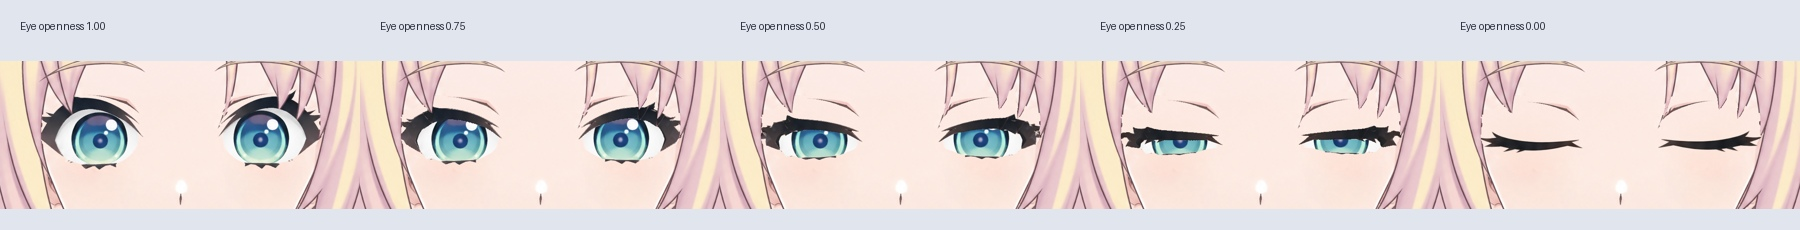
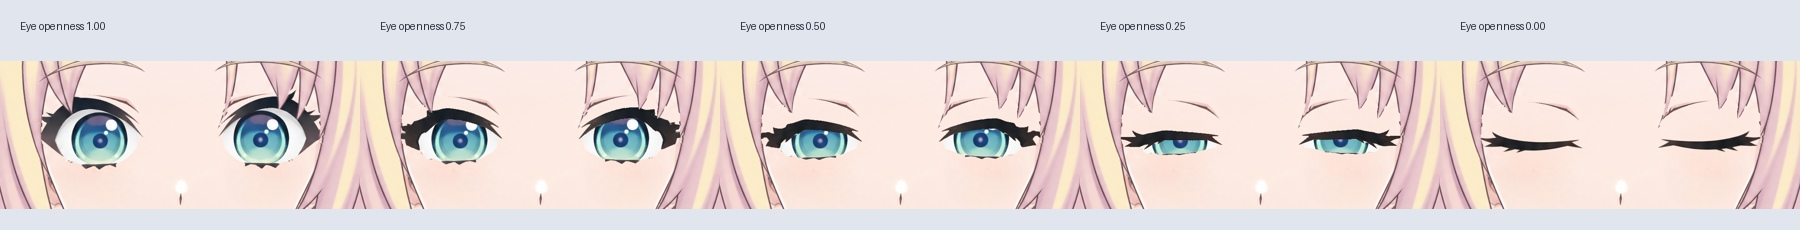
Refine moving eyelash ink, outer corners and adjacent hair edges

diff --git a/live2d/production/build_blink_materials_v34.py b/live2d/production/build_blink_materials_v34.py
@@ -13,9 +13,9 @@ import numpy as np
 from PIL import Image, ImageDraw
 from psd_tools import PSDImage
 from psd_tools.api.layers import Group, PixelLayer
-from scipy.ndimage import gaussian_filter1d, distance_transform_edt
+from scipy.ndimage import gaussian_filter1d, distance_transform_edt, median_filter
 
-from export_gaze_v34 import BASE, decode
+from export_gaze_v34 import BASE
 from split_head_v34 import thumbnail
 
 ROOT = Path(__file__).resolve().parents[1]
@@ -62,7 +62,7 @@ def blend_rgba(a, b, t):
     return np.uint8(np.clip(np.rint(out*255), 0, 255))
 
 
-def morph_lashes(a, b, t):
+def morph_lashes(a, b, t, profile=None):
     if t == 0: return b
     if t == 1: return a
     # Interpolate contours, not the visibility of two outlines: alpha crossfade
@@ -70,8 +70,14 @@ def morph_lashes(a, b, t):
     def sdf(im):
         m=(im[:, :, 3]>100).astype('uint8')
         return cv2.distanceTransform(m,cv2.DIST_L2,5)-cv2.distanceTransform(1-m,cv2.DIST_L2,5)
-    alpha=np.clip(.5+t*sdf(a)+(1-t)*sdf(b),0,1)
-    out=blend_rgba(a,b,t)
+    weights=t if profile is None else profile[None,:]
+    distance=weights*sdf(a)+(1-weights)*sdf(b)
+    # Suppress one-pixel spurs created when two different lash tips merge.
+    # Endpoint art is kept intact; filtering peaks only in the middle states.
+    strength=4*weights*(1-weights)
+    distance=(1-strength)*distance+strength*cv2.GaussianBlur(distance,(0,0),.85)
+    alpha=np.clip(.5+distance,0,1)
+    out=blend_rgba(a,b,t if profile is None else profile[None,:,None])
     out[:, :, 3]=np.rint(alpha*255)
     out[out[:, :, 3]==0]=0
     return out
@@ -83,6 +89,14 @@ def prepare_eye(side, parts, closed_source, blank):
            for suffix in ['White', 'Iris', 'UpperLid', 'LowerLid']}
     lash = eye['UpperLid'].copy(); lash[:, :, 3] = component(lash[:, :, 3])
     crease = eye['UpperLid'].copy(); crease[:, :, 3] = component(crease[:, :, 3], 1)
+    # The earlier source mixed visible art with underpainting at hair edges.
+    # Use continuous ink from the existing bald LibTV plate for the moving lash,
+    # extending only real opaque dark pixels beneath the antialiased edge.
+    raw=np.array(Image.open(ROOT/'rebuild_v3_4/underpaint/skin-underpaint-raw.png').crop(box))
+    valid=(lash[:,:,3]>245)&(raw[:,:,:3].max(2)<135)
+    assert valid.sum()>1000
+    nearest=distance_transform_edt(~valid,return_distances=False,return_indices=True)
+    lash[:,:,:3]=raw[nearest[0],nearest[1],:3]
     generated = np.array(closed_source.crop(box)).astype('float32')
     skin = np.array(blank.crop(box)).astype('float32')
     # Take only the connected closed eyelash, excluding ear edges and folds.
@@ -110,7 +124,8 @@ def prepare_eye(side, parts, closed_source, blank):
         indices=distance_transform_edt(ink[:,:,3]<250,return_distances=False,return_indices=True)
         ink[:,:,:3]=ink[indices[0],indices[1],:3]
     upper, lower = curves(eye['White'][:, :, 3])
-    return {'parts': eye, 'lash': lash, 'crease': crease, 'closed': closed,
+    return {'side':side,'span':(int(ox[0]),int(ox[-1])),
+            'parts': eye, 'lash': lash, 'crease': crease, 'closed': closed,
             'lt': lt, 'lb': lb, 'ct': ct, 'cb': cb, 'upper': upper, 'lower': lower,
             'registration': {'original_lash_x': [int(ox[0]+box[0]), int(ox[-1]+box[0])],
                              'generated_lash_x': [int(cx[0]+box[0]), int(cx[-1]+box[0])]}}
@@ -122,19 +137,23 @@ def keyform(eye, openness):
     p = openness
     h, w = eye['closed'].shape[:2]
     yy = np.broadcast_to(np.arange(h)[:, None], (h, w)).astype('float32')
+    xx=np.arange(w)
+    outer=np.clip((eye['span'][0]+120-xx)/70,0,1) if eye['side']=='L' else np.clip((xx-eye['span'][1]+120)/70,0,1)
+    outer=outer*outer*(3-2*outer)
+    profile=p*(1-outer)+p*p*outer
     # Match the two eyelash envelopes before interpolation, avoiding two
     # spatially separated outlines. This is a material study, not mesh binding.
-    top = eye['lt']*p + eye['ct']*(1-p)
-    bottom = eye['lb']*p + eye['cb']*(1-p)
+    top = eye['lt']*profile + eye['ct']*(1-profile)
+    bottom = eye['lb']*profile + eye['cb']*(1-profile)
     phase = (yy-top) / np.maximum(bottom-top, 1)
     a = remap_rgba(eye['lash'], eye['lt'] + phase*(eye['lb']-eye['lt']))
     b = remap_rgba(eye['closed'], eye['ct'] + phase*(eye['cb']-eye['ct']))
-    upper_lash = morph_lashes(a, b, p)
+    upper_lash = morph_lashes(a, b, p, profile)
     # Keep a single crease; the generated plate's additional crease is omitted.
     crease = remap_rgba(eye['crease'], yy-18*(1-p))
     upper_image = Image.fromarray(upper_lash)
     upper_image.alpha_composite(Image.fromarray(crease))
-    upper_edge = eye['upper']*p + eye['cb']*(1-p)
+    upper_edge = eye['upper']*profile + eye['cb']*(1-profile)
     lower_edge = eye['lower']*p + eye['cb']*(1-p)
     aperture = np.minimum(np.clip(yy-upper_edge+.5, 0, 1), np.clip(lower_edge-yy+.5, 0, 1))
     if p == 0:
@@ -167,8 +186,37 @@ def refine_hair_edges(parts, blank):
     alpha=hi.resize((tr-tx,tb-ty),Image.Resampling.LANCZOS)
     patch=np.array(mother.crop(tipbox));patch[:,:,3]=np.array(alpha)
     layer=parts['Bang_R'].copy();layer.alpha_composite(Image.fromarray(patch),(tx,ty));parts['Bang_R']=layer
-    for n in ['Bang_L','Bang_R']:parts[n].save(OUT/'layers'/f'{n}.png')
-    return [{'layer':'Bang_L','box':list(box)},{'layer':'Bang_R','box':list(tipbox)}]
+    patches=[{'layer':'Bang_L','box':list(box)},{'layer':'Bang_R','box':list(tipbox)}]
+    for names,rect,edge in [(('Bang_L','CheekLock_L'),(651,773,704,916),'right'),
+                            (('Bang_R','CheekLock_R'),(1347,773,1404,916),'left')]:
+        x,y,r,b=rect
+        combined=Image.new('RGBA',(r-x,b-y))
+        for name in names:combined.alpha_composite(parts[name].crop(rect))
+        a=np.array(combined)
+        boundary=[]
+        for row in a[:,:,3]:
+            occupied=np.flatnonzero(row>128)
+            assert len(occupied)>0
+            boundary.append(occupied[-1] if edge=='right' else occupied[0])
+        boundary=np.asarray(boundary,dtype='float32')
+        smooth=gaussian_filter1d(median_filter(boundary,size=15,mode='nearest'),2)
+        yy=np.arange(b-y);fade=np.minimum(np.clip(yy/18,0,1),np.clip((b-y-1-yy)/18,0,1))
+        shift=(boundary-smooth)*fade
+        xx=np.broadcast_to(np.arange(r-x,dtype='float32'),a.shape[:2])
+        # Limit the edit to a narrow band beside the existing hair boundary.
+        weight=np.clip(1-np.abs(xx-boundary[:,None])/14,0,1)
+        xmap=xx+shift[:,None]*weight
+        ymap=np.broadcast_to(yy[:,None],a.shape[:2]).astype('float32')
+        for name in names:
+            layer=parts[name].copy();premul=np.array(layer.crop(rect)).astype('float32')/255
+            premul[:,:,:3]*=premul[:,:,3:4]
+            v=cv2.remap(premul,xmap.astype('float32'),ymap,cv2.INTER_LINEAR,borderMode=cv2.BORDER_REPLICATE)
+            v[:,:,:3]/=np.maximum(v[:,:,3:4],1/65536)
+            repaired=np.uint8(np.clip(np.rint(v*255),0,255))
+            layer.paste(Image.fromarray(repaired),(x,y));parts[name]=layer
+            patches.append({'layer':name,'box':list(rect),'max_boundary_shift_px':float(np.abs(shift).max())})
+    for n in ['Bang_L','Bang_R','CheekLock_L','CheekLock_R']:parts[n].save(OUT/'layers'/f'{n}.png')
+    return patches
 
 
 def main():

diff --git a/live2d/production/check_blink_transition_v34.py b/live2d/production/check_blink_transition_v34.py
@@ -1,0 +1,48 @@
+"""Inspect 101 material states per eye for clipping and major contour breaks."""
+import json
+
+import cv2
+import numpy as np
+from PIL import Image
+
+import build_blink_materials_v34 as blink
+
+
+def main():
+    parts = {
+        f'Eye_{side}_{name}': Image.open(
+            blink.SRC/'layers'/f'Eye_{side}_{name}.png').convert('RGBA')
+        for side in 'LR' for name in ['White', 'Iris', 'UpperLid', 'LowerLid']
+    }
+    closed = Image.open(blink.OUT/'sources/closed-eyes-source.png').convert('RGBA')
+    blank = Image.open(blink.SRC/'sources/featureless-skin.png').convert('RGBA')
+    report = {}
+    for side in 'LR':
+        eye = blink.prepare_eye(side, parts, closed, blank)
+        areas = []; components = []
+        for p in np.linspace(0, 1, 101):
+            pose = blink.keyform(eye, float(p))
+            aperture = pose['White'][:, :, 3]
+            assert np.array_equal(pose['Iris'], eye['parts']['Iris'])
+            assert np.all(aperture <= eye['parts']['White'][:, :, 3])
+            areas.append(int(aperture.sum()))
+            _, _, stats, _ = cv2.connectedComponentsWithStats(
+                (pose['UpperLid'][:, :, 3] > 127).astype('uint8'))
+            # The lash and its separate crease are the two main components.
+            components.append(int(np.count_nonzero(stats[1:, 4] > 8)))
+        assert areas[0] == 0 and all(a <= b for a, b in zip(areas, areas[1:]))
+        assert set(components) == {2}, (side, components)
+        report[side] = {
+            'samples': 101, 'opening_area_monotonic': True,
+            'iris_texture_exact': True, 'aperture_inside_original': True,
+            'major_upper_lid_component_counts': sorted(set(components)),
+            'max_upper_lid_components': max(components),
+            'component_min_area_px_exclusive': 8,
+            'scope': 'raster material topology; not Cubism mesh verification',
+        }
+    (blink.OUT/'qa/dense-transition-checks.json').write_text(json.dumps(report, indent=2)+'\n')
+    print(json.dumps(report, indent=2))
+
+
+if __name__ == '__main__':
+    main()

diff --git a/live2d/BLINK_MATERIALS_V034.md b/live2d/BLINK_MATERIALS_V034.md
@@ -2,13 +2,22 @@
 
 主文件：`Rurino_Head_Blink_Materials_v034.psd`。本稿在 29 层面部素材上增加半闭眼、闭眼两个状态，共 39 个像素层。默认显示睁眼，另外两个眼睛状态组隐藏。
 
-## 本轮完成
+## 最新边缘修订
+
+- 移动睫毛改用已有 LibTV 无头发补画中连续的深色贴图，清掉之前两种来源拼接留下的肤色细缝；无需重新生成图片。
+- 中间态轻度平滑轮廓，外眼角提前向闭眼形态收拢，减少半闭眼时堆叠的尖刺和厚重黑块。保留原始睁眼状态和闭眼素材。
+- 两侧眼前发丝边缘使用同一位移同步修复相邻发层，避免层间错位；局部边界位移上限分别约 4.80 和 4.20 个 2048 原图像素。未移动脸型、瞳孔或嘴的位置。
+- 每只眼检查 101 个开合位置：眼白开口单调收拢到零、不会越出原眼白区域，虹膜贴图逐像素不变。上睑始终保持睫毛和眼褶两个主要连通部分（忽略面积不超过 8 像素的碎点），未发生主要线条断裂。
+
+对照图：`qa/edge-refinement-before-after.png`。连续状态检查：`qa/dense-transition-checks.json`。可运行 `python production/check_blink_transition_v34.py` 复现检查。
+
+## 初版素材制作
 
 - 使用 LibTV Lib Image 2.5 Pro 生成一张自然闭眼补画，只提取闭眼睫毛，未使用生成图替换整张脸。原始提示词、任务、节点和交付记录保存在 `sources/`。
 - 将闭眼睫毛两端对齐原睫毛的横向范围，保持眼距；生成图里额外的眼褶不重复叠加。上眼褶由原素材小幅下移得到。
 - 眼白开口逐渐收拢，虹膜贴图保持原尺寸与位置。上睫毛做轮廓过渡，下睫毛收拢到闭合处，不压缩整只眼球。
 - 中间态改用轮廓插值，并延伸睫毛实色到抗锯齿边缘下方，避免外眼角出现两层灰色睫毛。
-- 仅对两处刘海做局部修补：左侧刘海边缘捕获的睫毛碎点、右侧细发尖的小断口。侧发与眼角交界尚有细边需收整。
+- 仅对两处刘海做局部修补：左侧刘海边缘捕获的睫毛碎点、右侧细发尖的小断口。侧发与眼角交界后续做了局部边界平滑，见最新修订。
 - 保存 1、0.75、0.5、0.25、0 五个开合度的全尺寸合成 PNG；PSD 内保留睁眼、半闭眼、闭眼三组可编辑图层。
 
 ## 如何查看
@@ -22,13 +31,15 @@ PSD 中 `02_Eyes_Open_DEFAULT`、`03_Eyes_Half_ENABLE_ONLY_ONE_EYE_GROUP`、`04_
 `qa/checks.json` 保存本地合成与重新打开 PSD 的验证：
 
 - 五个开合度中，眼区以外最大像素变化为 0，透明度轮廓保持一致。
-- 原中性图只在上述两处发丝修补区域发生变化；眼距、瞳孔、嘴和脸型未移动。
+- 原中性图只在发尖和两侧眼前发丝修补区域发生变化；眼距、瞳孔、嘴和脸型未移动。
 - 虹膜源贴图不变；全闭眼时眼白开口 alpha 总和为 0，下眼线合并后不留第二条线。
 - APNG 按实际帧时长解码后，与渲染序列逐像素一致，没有使用 GIF 调色板。
 - PSD 与独立合成的可见 RGB 最大差：睁眼 6、半闭眼 9、闭眼 1；alpha 最大差 1。半闭眼仅 2 个抗锯齿边缘像素的 RGB 差超过 7，未宣称两种合成器完全一致。
 
-这只是栅格素材动作研究。尚未创建 Cubism 网格、EyeOpen 参数、运动文件或新的 Windows 运行模型。中间态外眼角和眼发交界仍需最终线条收整，然后才能将关键形做成连续网格变形。口腔、唇形、头部透视和发根物理仍待制作。
+这只是栅格素材动作研究。尚未创建 Cubism 网格、EyeOpen 参数、运动文件或新的 Windows 运行模型。本轮已收整中间态外眼角和眼前发丝边界，仍需在 Cubism 网格变形后复核遮挡、斜向视线和缩放显示。口腔、唇形、头部透视和发根物理仍待制作。
 
 复现：先按源码包 README 重建上一阶段，再运行 `python production/build_blink_materials_v34.py`。仅读取本地已保存素材，不再次请求 LibTV。
 
 ![眨眼素材检查](preview/blink-materials-v0.3.4.png)
+
+![修订前后对比](preview/blink-edge-comparison-v0.3.4.png)
